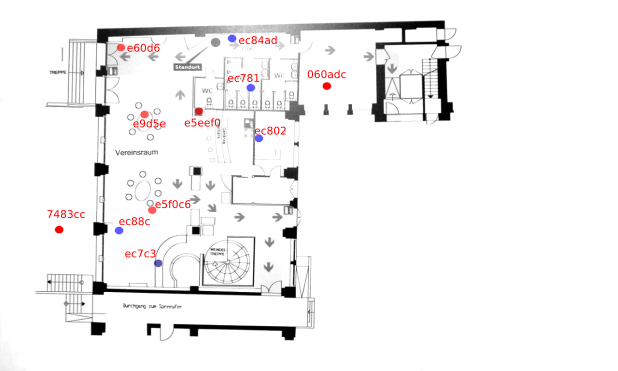
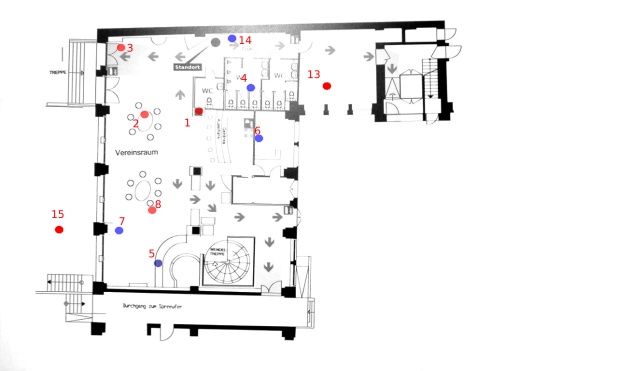
new parser for netjson

diff --git a/battlemesh-map-python/plot_map.py b/battlemesh-map-python/plot_map.py
@@ -2,16 +2,24 @@
 
 import networkx as nx
 import matplotlib.pyplot as plt
+import netdiff
+import sys
+import json
 
 max_y = 370
 max_x = 617
 
-def plot_line(n1, n2):
+
+def plot_line(n1, n2, cost=0):
     x = [n1['x'], n2['x']]
     y = [n1['y'], n2['y']]
-    ax.plot(x , y , linewidth=2, color='firebrick')
+    print(x, y)
+    if not cost:
+        cost = 2
+    ax.plot(x, y, linewidth=cost, color='firebrick')
 
 position_map = {}
+
 #3600
 #position_map["fe80::ea94:f6ff:fef3:10ee"] = {'x':, 'y':}
 #position_map["fe80::ea94:f6ff:fef2:f4ce"] = {'x':, 'y':}
@@ -20,27 +28,53 @@ position_map = {}
 #position_map["fe80::ea94:f6ff:fef3:fe9"] = {'x':, 'y':}
 #position_map["fe80::ea94:f6ff:fef3:1145"] = {'x':, 'y':}
 #position_map["fe80::ea94:f6ff:fef3:10f7"] = {'x':, 'y':}
-position_map["fe80::16cc:20ff:fe5e:c88b"] = {'x':118, 'y':232}
-position_map["fe80::16cc:20ff:fe5e:c7c2"] = {'x':157, 'y':264}
 #position_map["fe80::16cc:20ff:fe5e:c8ac"] = {'x':, 'y':}
-position_map["fe80::16cc:20ff:fe5e:c780"] = {'x':250, 'y':86}
-position_map["fe80::16cc:20ff:fe5e:c801"] = {'x':258, 'y':138}
+position_map["fe80::16cc:20ff:fe5e:c88c"] = {'x': 118, 'y': 232}
+position_map["fe80::16cc:20ff:fe5e:c7c3"] = {'x': 157, 'y': 264}
+position_map["fe80::16cc:20ff:fe5e:c781"] = {'x': 250, 'y': 86}
+position_map["fe80::16cc:20ff:fe5e:c802"] = {'x': 258, 'y': 138}
+
+position_map["10.0.7.1"] = {'x': 118, 'y': 232}
+position_map["10.0.5.1"] = {'x': 157, 'y': 264}
+position_map["10.0.4.1"] = {'x': 250, 'y': 86}
+position_map["10.0.6.1"] = {'x': 258, 'y': 138}
 #4300
-position_map["fe80::6670:2ff:fe3e:9d5f"] = {'x':145, 'y':114}
-position_map["fe80::12fe:edff:fee5:eef1"] = {'x':198, 'y':115}
-#position_map["fe80::12fe:edff:fee6:add"] = {'x':, 'y':}
-position_map["fe80::12fe:edff:fee6:ad7"] = {'x':119, 'y':48}
-position_map["fe80::12fe:edff:fee5:f0c6"] = {'x':151, 'y':209}
+position_map["fe80::6670:2ff:fe3e:9d5f "] = {'x': 151, 'y': 209}
+position_map["fe80::12fe:edff:fee5:f0c8"] = {'x': 145, 'y': 114}
+position_map["fe80::12fe:edff:fee5:eef2"] = {'x': 198, 'y': 115}
+position_map["fe80::12fe:edff:fee6:ad8 "] = {'x': 119, 'y': 48}
+position_map["fe80::12fe:edff:fee6:ade "] = {'x': 325, 'y': 84}
+position_map["fe80::a2f3:c1ff:fe74:83ce"] = {'x': 59,  'y': 228}
+position_map["fe80::a2f3:c1ff:fe74:83cd"] = {'x': 231, 'y': 38}
+
+position_map["10.0.2.1"] = {'x': 151, 'y': 209}
+position_map["10.0..1"] = {'x': 145, 'y': 114}
+position_map["10.0.1.1"] = {'x': 198, 'y': 115}
+position_map["10.0.3.1"] = {'x': 119, 'y': 48}
+position_map["10.0.13.1"] = {'x': 325, 'y': 84}
+position_map["10.0.14.1"] = {'x': 59, 'y': 228}
+position_map["10.0.15.1"] = {'x': 231, 'y': 38}
+#position_map["fe80::12fe:edff:fee5:f0c8"] = {'x':151, 'y':209}
+#position_map["fe80::12fe:edff:fee5:f0c8"] = {'x':151, 'y':209}
 #position_map["fe80::12fe:edff:fee5:f0c6"] = {'x':, 'y':}
-position_map["fe80::12fe:edff:fee6:adc"] = {'x':325, 'y':84}
-position_map["fe80::a2f3:c1ff:fe74:83cc"] = {'x':59, 'y':228}
-position_map["fe80::a2f3:c1ff:fe74:83cd"] = {'x':231, 'y':38}
+#position_map["fe80::12fe:edff:fee6:add"] = {'x':, 'y':}
 
 
 img = plt.imread("map.png")
 fig, ax = plt.subplots()
+try:
+    g = netdiff.NetJsonParser(file=sys.argv[1]).graph
+except netdiff.exceptions.ParserError:
+    # TODO: remove NetworkCollection tag when the netjson is a collection of networks
+    exit
+
+for link in g.edges(data=True):
+    linklocal_left = g.node[link[0]]["router_addr"]
+    linklocal_right = g.node[link[1]]["router_addr"]
+    #print(linklocal_left in position_map, linklocal_right in position_map, linklocal_left, linklocal_right)
+    if linklocal_left in position_map and linklocal_right in position_map:
+        left = position_map[linklocal_left]
+        right = position_map[linklocal_right]
+        plot_line(left, right)
 ax.imshow(img)
-for i in position_map.values():
-    for k in position_map.values():
-        plot_line(i, k)
 plt.show()
